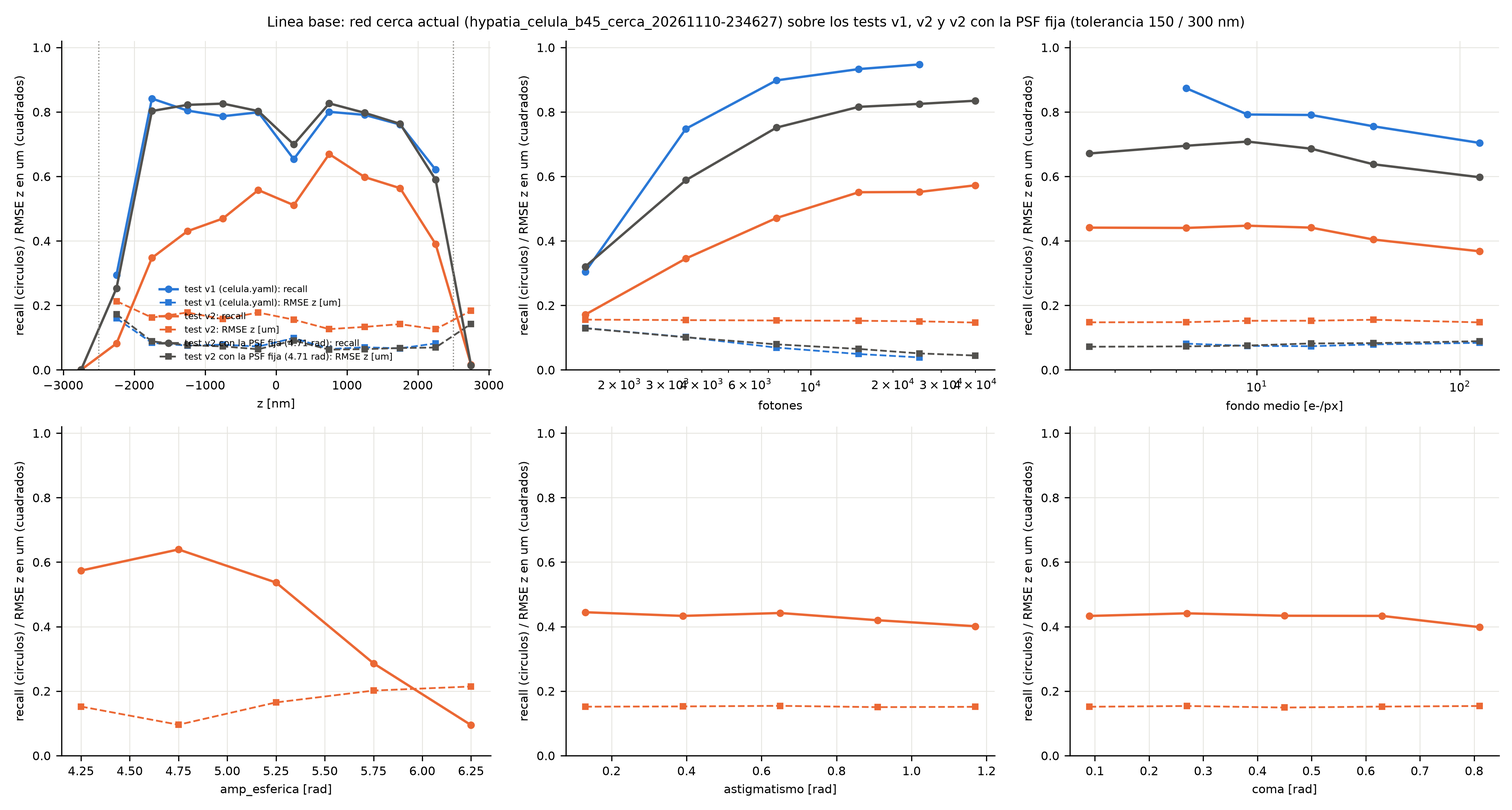
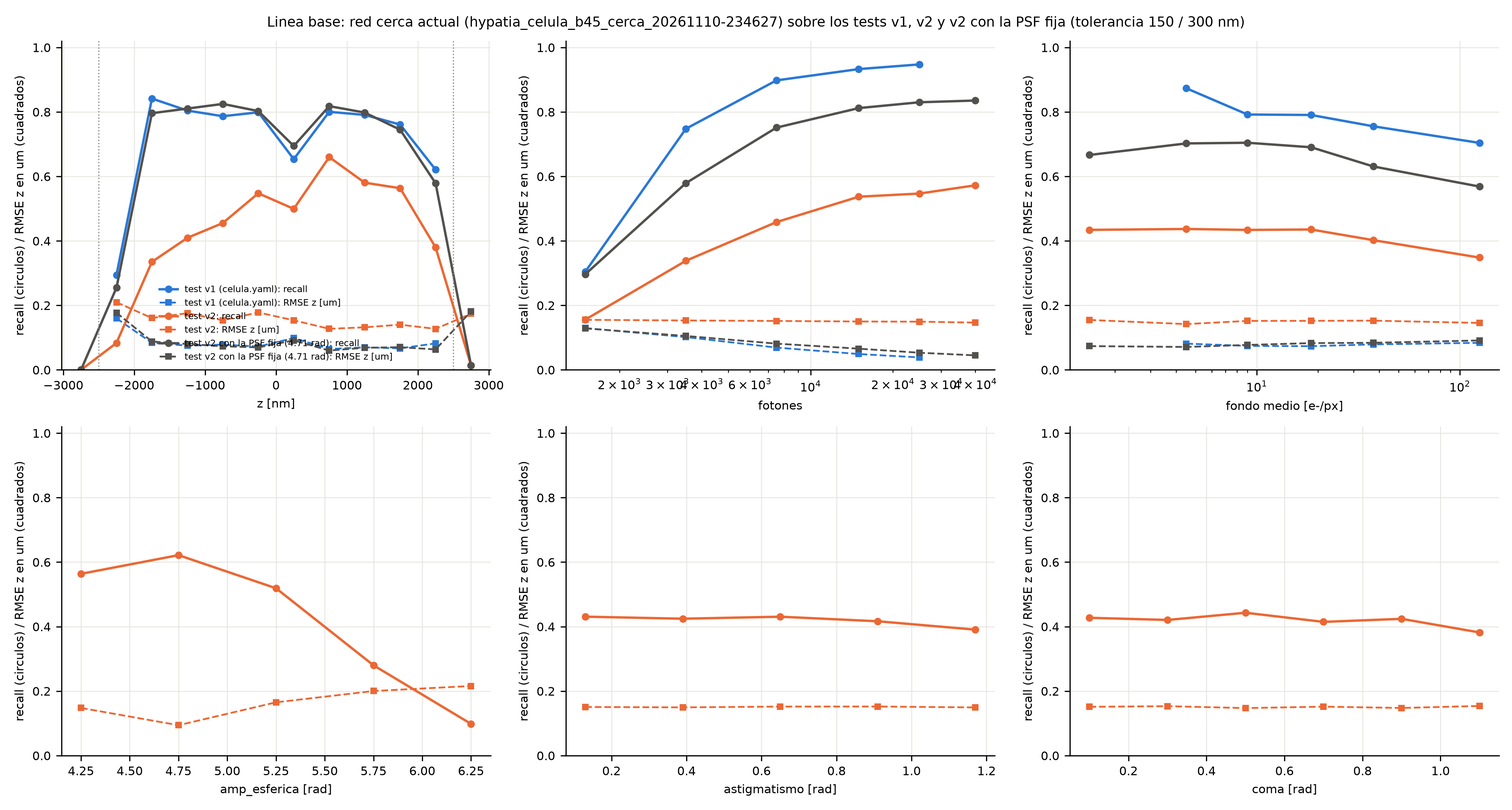
feat: simulador v2 con coma en [0, 1.2] rad y autofluorescencia en [0, 4.0]; test v2 y control regenerados, linea base repetida (seccion 6 de resultados_simulador_v2.md), FP por imagen por esferica y contraste en simulador_v2.py, 150 epocas en los comandos de Hypatia

diff --git a/figuras/simulador_v2.py b/figuras/simulador_v2.py
@@ -10,7 +10,8 @@ Partes:
     linea_base metricas de la red sobre el test v1, el test v2 y el control v2
                con la PSF fija (misma semilla: mismas posiciones, fotones y
                fondo; solo cambia la pupila), por rango de z, de amp_esferica,
-               de astigmatismo, de coma, de fotones y de fondo
+               de astigmatismo, de coma, de fotones y de fondo, y FP por imagen
+               por amp_esferica y por contraste de la autofluorescencia
                -> simulador_v2_linea_base.csv, fig_simulador_v2_linea_base.png
 
 Uso:
@@ -35,6 +36,10 @@ TESTS = {"v1": "test_celula_b45_cerca", "v2": "test_celula_v2_b45_cerca", "v2_ps
 COLOR = {"v1": "#2a78d6", "v2": "#eb6834", "v2_psf_fija": "#52514e"}
 NOMBRE = {"v1": "test v1 (celula.yaml)", "v2": "test v2", "v2_psf_fija": "test v2 con la PSF fija (4.71 rad)"}
 R_XY, R_Z = 150.0, 300.0
+_V2 = cargar_config(RAIZ / "localizacion" / "configs" / "celula_v2.yaml").datos
+BINS_PSF = {"amp_esferica": np.linspace(*_V2.psf_amp_esferica_rango, 6), "amp_astig": np.linspace(*_V2.psf_astig_rango, 6),
+            "amp_coma": np.linspace(*_V2.psf_coma_rango, 7)}
+BINS_CONTRASTE = [0, 0.25, 0.5, 1, 2, 4, 10]       # fondo_celula / fondo medio de la imagen
 
 
 def leer_test(nombre):
@@ -98,7 +103,8 @@ def parte_datos(salida):
     cs = config_simulador(cd, 3)
     zs = (-2500.0, 0.0, 2500.0)
     casos = [("4.0 rad", dict(amp_esferica=4.0)), ("6.5 rad", dict(amp_esferica=6.5)),
-             ("4.0 + astig 1.3 + coma 0.9", dict(amp_esferica=4.0, amp_astig=1.3, amp_coma=0.9, angulo_coma_deg=90.0)),
+             (f"4.0 + astig {_V2.psf_astig_rango[1]:.1f} + coma {_V2.psf_coma_rango[1]:.1f}",
+              dict(amp_esferica=4.0, amp_astig=_V2.psf_astig_rango[1], amp_coma=_V2.psf_coma_rango[1], angulo_coma_deg=90.0)),
              ("v1: 4.71 rad", dict(amp_esferica=1.5 * np.pi))]
     from dataclasses import replace
     sub = gs[1, :].subgridspec(1, 12, wspace=0.08)
@@ -177,8 +183,7 @@ def parte_linea_base(corrida, salida):
         cortes = {"z_nm": np.arange(-3000, 3001, 500), "photons": [1000, 2000, 5000, 10000, 20000, 30000, 50000],
                   "fondo_medio": [0, 3, 6, 12, 25, 50, 200]}
         if "amp_esferica" in gt:
-            cortes.update(amp_esferica=np.arange(4.0, 6.51, 0.5), amp_astig=np.linspace(0, 1.3, 6),
-                          amp_coma=np.linspace(0, 0.9, 6))
+            cortes.update(BINS_PSF)
         if "fondo_celula" in gt:
             gt = gt.assign(contraste_celula=gt.fondo_celula / np.maximum(gt.fondo_medio, 1e-9))
         for f, b in cortes.items():
@@ -186,6 +191,21 @@ def parte_linea_base(corrida, salida):
                 s = gt[(gt[f] >= lo) & (gt[f] < hi)]
                 if len(s) >= 20:
                     filas.append(dict(test=k, factor=f, desde=lo, hasta=hi, **metricas(s)))
+    # FP por imagen segun factores de la imagen (muestras.csv del test v2: el control comparte los
+    # video_id, el fondo y la autofluorescencia, y la PSF del v2 se usa para agrupar)
+    if "v2" in ev:
+        mv2 = ev["v2"][2].assign(contraste_celula=lambda d: d.fondo_celula / np.maximum(d.fondo_medio, 1e-9))
+        for k, (gt, pred, m) in ev.items():
+            if k == "v1":
+                continue
+            fp = pred[~pred.tp & ~pred.fuera_fov].groupby("video_id").size()
+            mm = mv2.assign(fp=mv2.video_id.map(fp).fillna(0))
+            for f, b in ({"amp_esferica": BINS_PSF["amp_esferica"], "contraste_celula": BINS_CONTRASTE}).items():
+                for lo, hi in zip(b[:-1], b[1:]):
+                    s = mm[(mm[f] >= lo) & (mm[f] < hi)]
+                    if len(s):
+                        filas.append(dict(test=k, factor=f"fp_por_imagen:{f}", desde=lo, hasta=hi, n=len(s),
+                                          fp=float(s.fp.mean())))
     t = pd.DataFrame(filas)
     t.to_csv(salida / "simulador_v2_linea_base.csv", index=False)
     with pd.option_context("display.width", 250, "display.max_rows", 500):
@@ -202,8 +222,7 @@ def parte_linea_base(corrida, salida):
               f"{p.detectado_fija.mean():.3f}; detectados solo con la PSF fija {np.mean(~p.detectado & p.detectado_fija):.3f}, "
               f"solo con la v2 {np.mean(p.detectado & ~p.detectado_fija):.3f}; RMSE z de los detectados por las dos "
               f"{np.sqrt(np.mean(ambos.dz_nm ** 2)):.1f} / {np.sqrt(np.mean(ambos.dz_nm_fija ** 2)):.1f} nm ({len(ambos)})")
-        for f, b in (("amp_esferica", np.arange(4.0, 6.51, 0.5)), ("amp_astig", np.linspace(0, 1.3, 6)),
-                     ("amp_coma", np.linspace(0, 0.9, 6))):
+        for f, b in BINS_PSF.items():
             for lo, hi in zip(b[:-1], b[1:]):
                 s = p[(p[f] >= lo) & (p[f] < hi)]
                 sa = s[s.detectado & s.detectado_fija]

diff --git a/localizacion/tests/test_v2.py b/localizacion/tests/test_v2.py
@@ -107,10 +107,10 @@ def test_config_celula_v2():
     s, d = c.datos.simulador, c.datos
     assert (s["gain"], s["offset"]) == (0.45, 97.75) and d.read_noise_rango == (2.18, 2.90)
     assert tuple(s["fondo_rango"]) == (1.0, 40.0) and s["muestreo_fondo"] == "log"
-    assert tuple(s["fondo_celula_contraste_rango"]) == (0.0, 2.5)
+    assert tuple(s["fondo_celula_contraste_rango"]) == (0.0, 4.0)
     assert tuple(s["fotones_rango"]) == (1000.0, 50000.0) and tuple(s["z_rango_nm"]) == (-3000.0, 3000.0)
     assert s["celula_peso_polos"] == 0.5 and s["anillos_hacia_objetivo"] is True
-    assert (d.psf_amp_esferica_rango, d.psf_astig_rango, d.psf_coma_rango) == ((4.0, 6.5), (0.0, 1.3), (0.0, 0.9))
+    assert (d.psf_amp_esferica_rango, d.psf_astig_rango, d.psf_coma_rango) == ((4.0, 6.5), (0.0, 1.3), (0.0, 1.2))
     assert c.entrenamiento.checkpoint_cada == 10 and c.entrenamiento.metricas_val
     assert c.target.dz_nm == 100.0
     cs = config_simulador(d, 1)

diff --git a/resultados_simulador_v2.md b/resultados_simulador_v2.md
@@ -2,7 +2,7 @@
 
 Simulador del próximo entrenamiento con célula. Usa los parámetros medidos en Yeast6_1 (`resultados_psf_real.md`, `resultados_suma_canales.md`), la pupila calibrada (`resultados_calibracion_pupila.md`, sección 7) y una PSF que cambia de muestra en muestra. Solo cubre la variante **cerca**, con el signo fijo. La config es `localizacion/configs/celula_v2.yaml`.
 
-Todas las opciones nuevas están apagadas por defecto. Con la config por defecto, el simulador da hoy **exactamente** las mismas imágenes que antes, bit a bit (sección 5). La línea base es la red cerca actual (`hypatia_celula_b45_cerca_20261110-234627`) sobre un test v2 de 2000 imágenes. No se entrenó nada ni se lanzó nada en Hypatia.
+Todas las opciones nuevas están apagadas por defecto. Con la config por defecto, el simulador da hoy **exactamente** las mismas imágenes que antes, bit a bit (sección 5). La línea base es la red cerca actual (`hypatia_celula_b45_cerca_20261110-234627`) sobre un test v2 de 2000 imágenes. Las dos corridas v2 de Hypatia están en la sección 7.
 
 ```bash
 PY=~/miniforge3/envs/tesis/bin/python
@@ -24,15 +24,15 @@ $PY figuras/simulador_v2.py                                  # figuras y tablas 
 | | resultado |
 |---|---|
 | cámara | Ganancia 0.45 e⁻/ADU y offset 97.75 ADU, medidos. El ruido de lectura se sortea por muestra, uniforme en [2.18, 2.90] ADU (la mediana y el rms medidos), en lugar de 99 ADU y 3.26 ADU |
-| fondo | Log-uniforme en [1, 40] e⁻/px. La mediana del fondo medio de la imagen baja de 35 a 16 e⁻/px, y el 10 % de las imágenes queda por debajo de 3.7 (Yeast6_1: 1.3–2.3 lejos de la célula). Se suma la **autofluorescencia de la célula** con su forma y con un contraste uniforme en [0, 2.5] veces el fondo base |
+| fondo | Log-uniforme en [1, 40] e⁻/px. La mediana del fondo medio de la imagen baja de 35 a 16 e⁻/px, y el 10 % de las imágenes queda por debajo de 3.7 (Yeast6_1: 1.3–2.3 lejos de la célula). Se suma la **autofluorescencia de la célula** con su forma y con un contraste uniforme en [0, 4.0] veces el fondo base |
 | autofluorescencia medida | Exceso con el real apagado (N = 0) sobre el fondo lejano: **1.83×** en el canal derecho (3.5 e⁻/px sobre 1.9) y **0.46×** en el izquierdo (0.6 sobre 1.3). El perfil encaja con la cuerda de una esfera con un blur de 4.8–5.6 px |
 | fotones | Hasta 50 000 por emisor (el real del canal derecho: 35 000–68 000 en total) |
 | z | La red cubre ±3000 nm. Con `celula_peso_polos` 0.5, los emisores con \|z\| > 2 µm pasan del 6.3 % al 25 %. La densidad a 2.5–2.75 µm pasa de 0.05 a 0.62 veces la del centro, y a 2.75–3 µm, de 0.00 a 0.23 (el límite lo pone el diámetro de la célula, 4–6 µm) |
-| PSF | Por muestra: esférica uniforme en [4.0, 6.5] rad, astigmatismo y coma con magnitud uniforme en [0, 1.3] y [0, 0.9] rad y orientación uniforme. **El real y su reflejo comparten la pupila de la muestra.** Signo fijo: cerca (`anillos_hacia_objetivo: true`) |
+| PSF | Por muestra: esférica uniforme en [4.0, 6.5] rad, astigmatismo y coma con magnitud uniforme en [0, 1.3] y [0, 1.2] rad y orientación uniforme. **El real y su reflejo comparten la pupila de la muestra.** Signo fijo: cerca (`anillos_hacia_objetivo: true`) |
 | bit a bit | Con los valores por defecto, las imágenes, el GT y la meta coinciden con los del código anterior. Lo verifican `celula.yaml` (cerca, 20 muestras; lejos, 10), `espejo.yaml` y `base.yaml`, además de la regresión del simulador sin espejo. Hay 114 tests en el simulador y 75 en `localizacion`, todos OK |
 | coste | 81 ms por muestra localmente, frente a 53 ms con `celula.yaml` (el banco no sirve para la pupila de cada muestra: cada emisor y cada reflejo es una FFT). Con 8 workers da ~100 muestras/s |
-| **línea base (red cerca actual)** | test v1: recall 0.757, precisión 0.950, RMSE z 78 nm. **Test v2: recall 0.428, precisión 0.463, RMSE z 152 nm.** Control v2 con la PSF fija de entrenamiento: recall 0.672, precisión 0.805, RMSE z 79 nm |
-| lectura | **La aleatorización de la PSF es lo que más pesa.** Con amp_esferica ≥ 6 rad el recall cae a 0.09 y el sesgo en z es de +180 nm. Fuera de la PSF, la red pierde por \|z\| > 2.5 µm (no puede predecirlos), por la autofluorescencia (FP por imagen: de 0.34 a 2.1 al subir el contraste) y algo de recall con fondos altos |
+| **línea base (red cerca actual)** | test v1: recall 0.757, precisión 0.950, RMSE z 78 nm. **Test v2: recall 0.419, precisión 0.427, RMSE z 151 nm.** Control v2 con la PSF fija de entrenamiento: recall 0.666, precisión 0.753, RMSE z 81 nm |
+| lectura | **La aleatorización de la PSF es lo que más pesa.** Con amp_esferica ≥ 6 rad el recall cae a 0.10 y el sesgo en z es de +180 nm. Fuera de la PSF, la red pierde por \|z\| > 2.5 µm (no puede predecirlos), por la autofluorescencia (FP por imagen: de 0.36 a 3.7 al subir el contraste) y algo de recall con fondos altos |
 
 ## 1. Qué cambia
 
@@ -42,13 +42,13 @@ $PY figuras/simulador_v2.py                                  # figuras y tablas 
 | `offset` | 99 ADU | 97.75 | nivel oscuro fuera de las aperturas (97.78 / 97.73) |
 | ruido de lectura | 3.26 ADU | uniforme en [2.18, 2.90] ADU por muestra (`datos.read_noise_rango`) | mediana y rms de las diferencias de cuadros / √2 |
 | `fondo_rango` | [5, 40], uniforme | [1, 40], **log-uniforme** (`muestreo_fondo: log`) | fondo de Yeast6_1: 1.3–2.3 e⁻/px |
-| autofluorescencia | — | contraste en [0, 2.5] × fondo base, blur 5 px (`fondo_celula_contraste_rango`, `fondo_celula_sigma_px`) | sección 2 |
+| autofluorescencia | — | contraste en [0, 4.0] × fondo base, blur 5 px (`fondo_celula_contraste_rango`, `fondo_celula_sigma_px`) | sección 2 |
 | `fotones_rango` | [1000, 30000] | [1000, 50000] | real del canal derecho, 35 000–68 000 |
 | `z_rango_nm` | ±2500 | ±3000 (61 + 4 planos) | la célula llega a ±3 µm |
 | z en la célula | uniforme en el volumen | `celula_peso_polos: 0.5` | sección 3 |
 | `amp_esferica` | 4.71 rad (1.5π) | uniforme en [4.0, 6.5] rad por muestra | calibración: 4.11 (cuenca ganadora de cerca) y 6.40 (la otra cuenca), sección 7 |
 | astigmatismo | — | magnitud uniforme en [0, 1.3] rad, ángulo uniforme en [0, 180°) | ajuste con los 5 Zernike: \|a2\| = 1.04 |
-| coma | — | magnitud uniforme en [0, 0.9] rad, ángulo uniforme en [0, 360°) | ajuste: \|a3\| = 1.04 (por encima del rango pedido) |
+| coma | — | magnitud uniforme en [0, 1.2] rad, ángulo uniforme en [0, 360°) | ajuste: \|a3\| = 1.04 |
 | entrenamiento | — | `checkpoint_cada: 10`, `metricas_val: true`, nombre `celula_v2` | |
 
 No cambian: la geometría del espejo (β en [40, 50]°, φ aleatorio), la célula (diámetro 4–6 µm, contacto en el centro ± 10 px, centro a z = 0), `ratio_reflejo_rango` [0.45, 1], el recorte de pupila del real y del reflejo, la red (`dz` 100 nm), la pérdida y el optimizador.
@@ -73,7 +73,7 @@ El exceso se ajusta como exceso(r, t) = a(r) + b(r) N(t), con N los fotones del 
 
 - a(r) tiene un plateau hasta ~20 px y cae a ~0.4 e⁻/px a 40 px. Es el perfil de una esfera vista en proyección (`perfil_celula`: cuerda √(1 − r²/R²) con blur gaussiano).
 - El R ajustado (34–39 px, 3.4–3.8 µm) es mayor que el radio de una célula de 5 µm (25 px). El perfil está centrado en el real, no en la célula, y el real se mueve 15 px en el video: las dos cosas ensanchan el perfil. El simulador usa el radio de la célula de la muestra.
-- El rango [0, 2.5] cubre los dos canales con margen y llega a 0, para células poco autofluorescentes. El contraste es relativo al fondo base: si la autofluorescencia escala con la excitación, también escala con el fondo.
+- El rango [0, 4.0] cubre los dos canales con margen (el doble del canal derecho, por si la autofluorescencia se blanquea con el real y la medida la subestima) y llega a 0, para células poco autofluorescentes. El contraste es relativo al fondo base: si la autofluorescencia escala con la excitación, también escala con el fondo.
 - En el simulador, la célula virtual (el reflejo de la célula) también brilla, con `ratio_reflejo` veces la amplitud. La amplitud se sortea por video, al final del flujo del fondo.
 
 ## 3. z: densidad en los polos
@@ -111,7 +111,7 @@ El banco solo da K (256 con cerca). La SNR del GT también usa la PSF de la mues
 
 **Signo.** Con `anillos_hacia_objetivo: true`, el simulador calcula la PSF conjugada (q = +z, máscara en −f). En la convención de la calibración (q = −z) eso equivale a a40 < 0, y los términos impares cambian de signo. Como la orientación de astigmatismo y coma es uniforme, la familia de PSF es la misma.
 
-**Rangos frente a la calibración (sección 7).** [4.0, 6.5] rad cubre las dos cuencas de cerca: 4.11 (la ganadora) y 6.40. Las magnitudes del ajuste con los cinco Zernike desde el mínimo 9 son |astig| 1.05 y |coma| 1.04. La coma queda por encima del rango pedido [0, 0.9]: si se quiere cubrir el ajuste, habría que subir a ~1.1.
+**Rangos frente a la calibración (sección 7).** [4.0, 6.5] rad cubre las dos cuencas de cerca: 4.11 (la ganadora) y 6.40. Las magnitudes del ajuste con los cinco Zernike desde el mínimo 9 son |astig| 1.05 y |coma| 1.04. El rango de la coma, [0, 1.2], cubre el ajuste (en la primera versión era [0, 0.9] y quedaba por debajo).
 
 **Coste.** 2.5 ms por FFT de 256². Una muestra v2 tarda 81 ms, frente a 53 ms con `celula.yaml`: en las dos, el real y el reflejo ya eran PSF directas por el recorte de pupila, y lo nuevo es la SNR con la pupila de la muestra y el perfil de la célula. Con 8 workers da ~100 muestras/s, por encima de las ~85 muestras/s que procesa la GPU.
 
@@ -131,56 +131,66 @@ El banco solo da K (256 con cerca). La SNR del GT también usa la PSF de la mues
 
 ![](figuras/fig_simulador_v2_linea_base.png)
 
-**Tests:**
-- `test_celula_v2_b45_cerca`: 2000 imágenes, semilla 3, 13 067 emisores en el FOV, 0 reintentos.
+**Tests** (regenerados con la config actual: coma en [0, 1.2] rad y contraste de la autofluorescencia en [0, 4.0]):
+- `test_celula_v2_b45_cerca`: 2000 imágenes, semilla 3, 13 067 emisores en el FOV, 0 reintentos, 156 s.
 - el **control** `test_celula_v2_psf_fija_b45_cerca`: las mismas muestras (misma semilla, mismas posiciones, fotones, fondo y autofluorescencia), con la PSF de entrenamiento (4.71 rad, sin aberraciones).
+
+Los dos rangos nuevos no cambian las posiciones, los fotones ni el fondo base: la coma sale del flujo propio de la pupila y la amplitud de la célula es el último sorteo del fondo. Los emisores son los mismos que en la primera versión (13 067).
 
 Tolerancia 150 / 300 nm. La red se entrenó con z en ±2500 nm y no puede predecir más allá de ±2700 (los planos del margen). Tablas en `figuras/simulador_v2_linea_base.csv`.
 
 | test | recall | precisión | FP por imagen | RMSE lat | RMSE z | sesgo z | recall \|z\| ≤ 2.5 µm |
 |---|---|---|---|---|---|---|---|
 | v1 (`test_celula_b45_cerca`) | 0.757 | 0.950 | 0.26 | 21.2 nm | 78.5 nm | +0.7 nm | 0.757 |
-| v2 con la PSF fija | 0.672 | 0.805 | 1.07 | 21.0 | 79.5 | +3.2 | 0.719 |
-| **v2** | **0.428** | **0.463** | **3.25** | **34.2** | **152.0** | **+36.9** | 0.458 |
+| v2 con la PSF fija | 0.666 | 0.753 | 1.43 | 21.6 | 80.9 | +4.6 | 0.712 |
+| **v2** | **0.419** | **0.427** | **3.67** | **39.5** | **151.4** | **+39.4** | 0.447 |
+
+Frente a la primera versión del test (coma ≤ 0.9 rad, contraste ≤ 2.5), el v2 pierde poco recall (0.428 → 0.419) y gana FP (3.25 → 3.67 por imagen) y error lateral (34.2 → 39.5 nm). El control pasa de 1.07 a 1.43 FP por imagen, solo por la autofluorescencia más fuerte.
 
 **Por amp_esferica** (v2 frente al control, emisor a emisor; RMSE z de los que detectan los dos):
 
 | amp_esferica [rad] | 4.0–4.5 | 4.5–5.0 | 5.0–5.5 | 5.5–6.0 | 6.0–6.5 |
 |---|---|---|---|---|---|
-| recall v2 / control | 0.57 / 0.68 | 0.64 / 0.66 | 0.54 / 0.68 | 0.29 / 0.67 | **0.09** / 0.68 |
-| RMSE z v2 / control | 151 / 66 nm | 90 / 73 | 163 / 69 | 201 / 62 | 216 / 56 |
-| sesgo z v2 | −117 nm | +20 | +134 | +175 | +183 |
-| FP por imagen v2 / control | 1.6 / 0.9 | 1.6 / 1.2 | 2.7 / 1.2 | 4.3 / 1.0 | 6.1 / 1.1 |
+| recall v2 / control | 0.56 / 0.67 | 0.62 / 0.65 | 0.52 / 0.67 | 0.28 / 0.67 | **0.10** / 0.67 |
+| RMSE z v2 / control | 147 / 67 nm | 90 / 74 | 163 / 68 | 199 / 64 | 218 / 73 |
+| sesgo z v2 | −111 nm | +23 | +133 | +177 | +183 |
+| FP por imagen v2 / control | 1.95 / 1.21 | 1.98 / 1.56 | 3.06 / 1.57 | 4.62 / 1.24 | 6.61 / 1.55 |
 
-- **La esférica domina.** Cerca de 4.71 rad (el valor de entrenamiento), la red casi no pierde recall, pero el RMSE z sube de 73 a 90 nm por el astigmatismo y la coma. Lejos de 4.71, la escala de z se corre en un sentido u otro (sesgo −117 nm por debajo, +180 nm por encima), y por encima de 5.5 rad la red deja de detectar y llena la imagen de FP. Una red entrenada con una sola amplitud **no** sirve para una esférica distinta: si la real es 4.11 o 6.40 rad, la red actual está fuera de su PSF.
-- **Astigmatismo y coma**, a amplitud fija, pesan poco en recall (de 0.45 a 0.40 de un extremo al otro del rango). Sí pesan en el RMSE lateral: de 26 a 44 nm con la coma, que corre el centroide.
+**Por contraste de la autofluorescencia** (amplitud de la célula / fondo medio de la imagen, que incluye la célula; por eso no pasa de 2.4 aunque el sorteo llegue a 4.0):
+
+| contraste | < 0.25 | 0.25–0.5 | 0.5–1 | 1–2 | 2–4 |
+|---|---|---|---|---|---|
+| imágenes | 314 | 294 | 508 | 828 | 56 |
+| FP por imagen v2 / control | 2.29 / 0.36 | 2.66 / 0.67 | 3.52 / 1.27 | 4.42 / 2.05 | 6.75 / 3.68 |
+
+- **La esférica domina.** Cerca de 4.71 rad (el valor de entrenamiento), la red casi no pierde recall, pero el RMSE z sube de 74 a 90 nm por el astigmatismo y la coma. Lejos de 4.71, la escala de z se corre en un sentido u otro (sesgo −111 nm por debajo, +180 nm por encima), y por encima de 5.5 rad la red deja de detectar y llena la imagen de FP. Una red entrenada con una sola amplitud **no** sirve para una esférica distinta: si la real es 4.11 o 6.40 rad, la red actual está fuera de su PSF.
+- **Astigmatismo y coma**, a amplitud fija, pesan poco en recall: de 0.43 a 0.39 de un extremo al otro de cada rango; el último tramo de la coma (1.0–1.2 rad, nuevo) es el que más baja, también en el control (0.64). Sí pesan en el RMSE lateral: de 24 a 55 nm a lo largo de la coma, que corre el centroide.
 - **Lo demás del v2** (control con la PSF fija):
-  - el recall en |z| ≤ 2.5 µm baja de 0.757 a 0.719;
+  - el recall en |z| ≤ 2.5 µm baja de 0.757 a 0.712;
   - los emisores con |z| > 2.5 µm (6.5 %) son FN seguros: recall 0.007;
-  - los FP se cuadruplican, sobre todo por la autofluorescencia. Las imágenes con contraste célula/fondo medio < 0.25 tienen 0.34 FP por imagen y las de 1–2 tienen 2.07;
-  - el fondo bajo no perjudica: el recall es 0.67–0.71 hasta 25 e⁻/px y baja a 0.60 por encima de 50;
+  - los FP se multiplican por 5.5, sobre todo por la autofluorescencia: 0.36 FP por imagen con contraste < 0.25 y 2.05 con 1–2. Con el rango nuevo aparecen imágenes con contraste 2–4, con 3.7 FP por imagen;
+  - el fondo bajo no perjudica: el recall es 0.67–0.71 hasta 25 e⁻/px y baja a 0.57 por encima de 50;
   - con fotones > 30 000 la red sigue bien (recall 0.835, RMSE z 45 nm).
 
-## 7. Próximo entrenamiento (sin lanzar)
+## 7. Entrenamiento v2 en Hypatia
 
 `localizacion/configs/celula_v2.yaml` es `celula.yaml` con los cambios de la sección 1, `checkpoint_cada: 10` y `metricas_val: true`. En Hypatia hay dos semillas, desde la raiz del repo:
 
 ```bash
-CONFIG=localizacion/configs/celula_v2.yaml PREFIJO=celula_v2 EPOCAS=100 TIEMPO=1-06:00:00 CPUS=8 SEMILLA=0 bash hypatia/lanzar_espejo.sh cerca
-CONFIG=localizacion/configs/celula_v2.yaml PREFIJO=celula_v2 EPOCAS=100 TIEMPO=1-06:00:00 CPUS=8 SEMILLA=1 bash hypatia/lanzar_espejo.sh cerca
+CONFIG=localizacion/configs/celula_v2.yaml PREFIJO=celula_v2 EPOCAS=150 TIEMPO=1-06:00:00 CPUS=8 SEMILLA=0 bash hypatia/lanzar_espejo.sh cerca
+CONFIG=localizacion/configs/celula_v2.yaml PREFIJO=celula_v2 EPOCAS=150 TIEMPO=1-06:00:00 CPUS=8 SEMILLA=1 bash hypatia/lanzar_espejo.sh cerca
 ```
 
 - **Nombres.** `SEMILLA` (nueva en `lanzar_espejo.sh` / `espejo.sbatch`; vacía da el comportamiento de antes) fija `entrenamiento.semilla`, que controla la inicialización y el orden. Las corridas se llaman `hypatia_celula_v2_b45_cerca_s0` y `_s1`. Los datos on-the-fly son los mismos en las dos (`seed_train` 1), así que la diferencia mide la variabilidad del entrenamiento.
-- **Test compartido.** Las dos usan el test `localizacion/datos/test_celula_v2_b45_cerca`. Para que no lo generen los dos jobs a la vez, hay que copiar antes el generado localmente (rsync) o lanzar la segunda cuando exista `imagenes.npy`.
-- **Tiempo.** Una época de `celula.yaml` en Hypatia tardó 326 s de media (9 h las 100). Con v2 hay 18 % más planos de salida, 50 % más coste de simulación y la pasada de métricas de val. 30 h dejan margen.
+- **Test compartido.** Las dos usan el test `localizacion/datos/test_celula_v2_b45_cerca`. Para que no lo generen los dos jobs a la vez, se copia antes el generado localmente con rsync: `espejo.sbatch` solo genera el test si no existe `imagenes.npy`.
+- **Tiempo.** Una época de `celula.yaml` en Hypatia tardó 326 s de media (9 h las 100). Con v2 hay 18 % más planos de salida, 50 % más coste de simulación y la pasada de métricas de val: estimando ~450 s por época, las 150 épocas son ~19 h, y 30 h dejan margen.
 - **Al terminar,** conviene evaluar las dos corridas también sobre el control con la PSF fija y sobre el test v1, para medir cuánto se paga en la PSF de entrenamiento por la robustez.
 
 ## Supuestos y limitaciones
 
-- **Autofluorescencia.** El perfil es fenomenológico (cuerda de una esfera con blur gaussiano), no la imagen 3D de una esfera fluorescente con esta PSF. El contraste sale de una sola célula y de un solo video. La regresión en N supone que la autofluorescencia no se blanquea al ritmo del real: si lo hace, el contraste real es mayor, y el rango [0, 2.5] lo cubre solo en parte (con el halo incluido, el exceso inicial es 8×).
+- **Autofluorescencia.** El perfil es fenomenológico (cuerda de una esfera con blur gaussiano), no la imagen 3D de una esfera fluorescente con esta PSF. El contraste sale de una sola célula y de un solo video. La regresión en N supone que la autofluorescencia no se blanquea al ritmo del real: si lo hace, el contraste real es mayor; el rango [0, 4.0] llega a 2.2 veces el medido en el canal derecho (con el halo incluido, el exceso inicial es 8×).
 - **Ruido de lectura.** Es gaussiano por píxel, con una σ por imagen. El sCMOS real tiene un mapa de ruido por píxel con cola (rms 2.9 frente a mediana 2.18), que no se modela.
 - **β.** Sigue en [40, 50]°, aunque la calibración con la esférica sola pega en la cota de 50° (sección 7 de `resultados_calibracion_pupila.md`).
 - **Altura de la célula.** El centro sigue en el foco (altura 0, pendiente de confirmar), y los polos de ±3 µm solo los alcanzan las células de 6 µm.
 - **Pupila.** Solo esférica, astigmatismo y coma, con amplitud uniforme en la pupila. Los efectos de polarización de `resultados_psf_real.md` (lóbulos que rotan entre canales) no caben en el modelo escalar.
-- **Coma.** El rango [0, 0.9] rad queda por debajo de la magnitud ajustada (1.04 rad).
 - **Línea base.** Mide una red entrenada con otra PSF y con z en ±2.5 µm, así que su caída en el test v2 es lo esperable. Lo que aporta es el reparto de la caída entre factores y el punto de comparación para las corridas v2.

diff --git a/hypatia/README.md b/hypatia/README.md
@@ -72,8 +72,8 @@ CONFIG=localizacion/configs/celula.yaml PREFIJO=celula EPOCAS=100 TIEMPO=1-06:00
 **Simulador v2** (`configs/celula_v2.yaml`, `resultados_simulador_v2.md`): camara medida, fondo log-uniforme en [1, 40] e-/px con autofluorescencia de la celula, fotones hasta 50000, z +-3000 nm y PSF aleatorizada por muestra, solo con `cerca`. La config ya trae `checkpoint_cada: 10` y `metricas_val: true`. Se lanzan dos semillas (`SEMILLA` cambia `entrenamiento.semilla` y agrega `_s<SEMILLA>` al nombre; los datos son los mismos). El test `localizacion/datos/test_celula_v2_b45_cerca` es el mismo para las dos: copiarlo antes con rsync desde el computador local, o lanzar la segunda cuando la primera ya lo genero, para que no lo escriban a la vez. Cada muestra cuesta ~80 ms localmente (frente a ~53 con `celula.yaml`): con `CPUS=8` la simulacion da ~100 muestras/s.
 
 ```bash
-CONFIG=localizacion/configs/celula_v2.yaml PREFIJO=celula_v2 EPOCAS=100 TIEMPO=1-06:00:00 CPUS=8 SEMILLA=0 bash hypatia/lanzar_espejo.sh cerca
-CONFIG=localizacion/configs/celula_v2.yaml PREFIJO=celula_v2 EPOCAS=100 TIEMPO=1-06:00:00 CPUS=8 SEMILLA=1 bash hypatia/lanzar_espejo.sh cerca
+CONFIG=localizacion/configs/celula_v2.yaml PREFIJO=celula_v2 EPOCAS=150 TIEMPO=1-06:00:00 CPUS=8 SEMILLA=0 bash hypatia/lanzar_espejo.sh cerca
+CONFIG=localizacion/configs/celula_v2.yaml PREFIJO=celula_v2 EPOCAS=150 TIEMPO=1-06:00:00 CPUS=8 SEMILLA=1 bash hypatia/lanzar_espejo.sh cerca
 ```
 
 A 45 grados los reflejos quedan hasta z' = -6.9 um (mas lejos del objetivo). Con `cerca` ese lado es el de la PSF ancha: el banco usa K = 256 y cada muestra cuesta ~16 ms localmente, frente a K = 144 y ~7 ms con `lejos`, asi que con `cerca` conviene `CPUS=8`.
